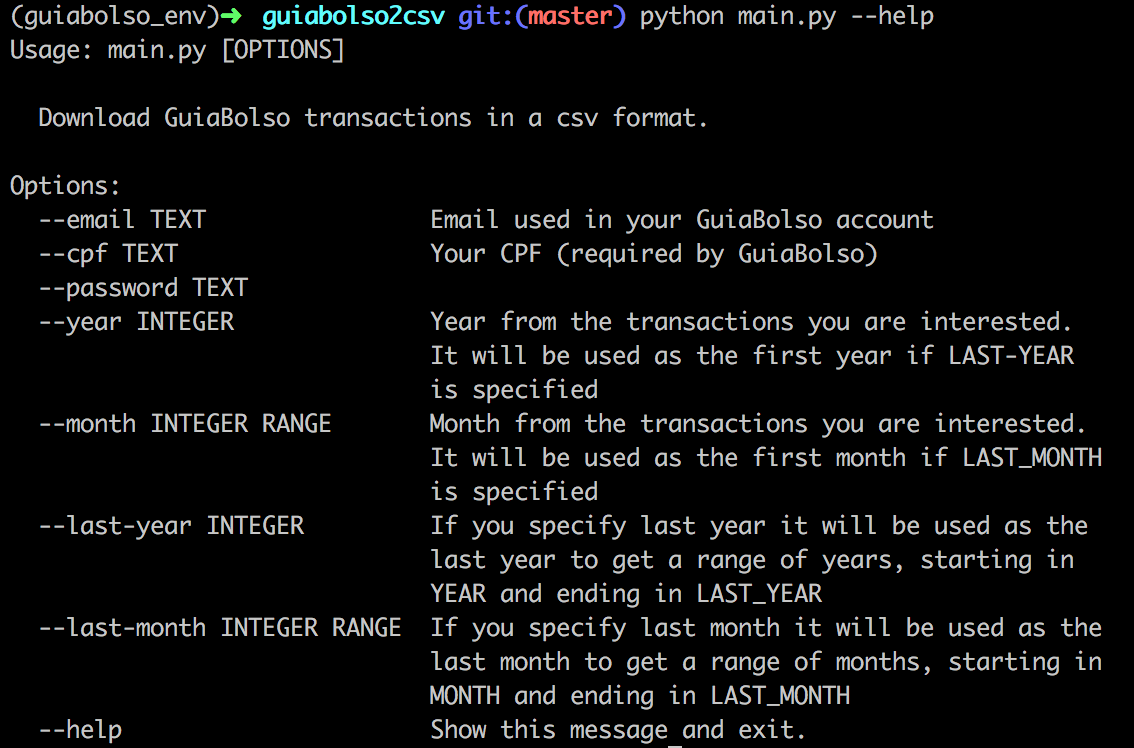
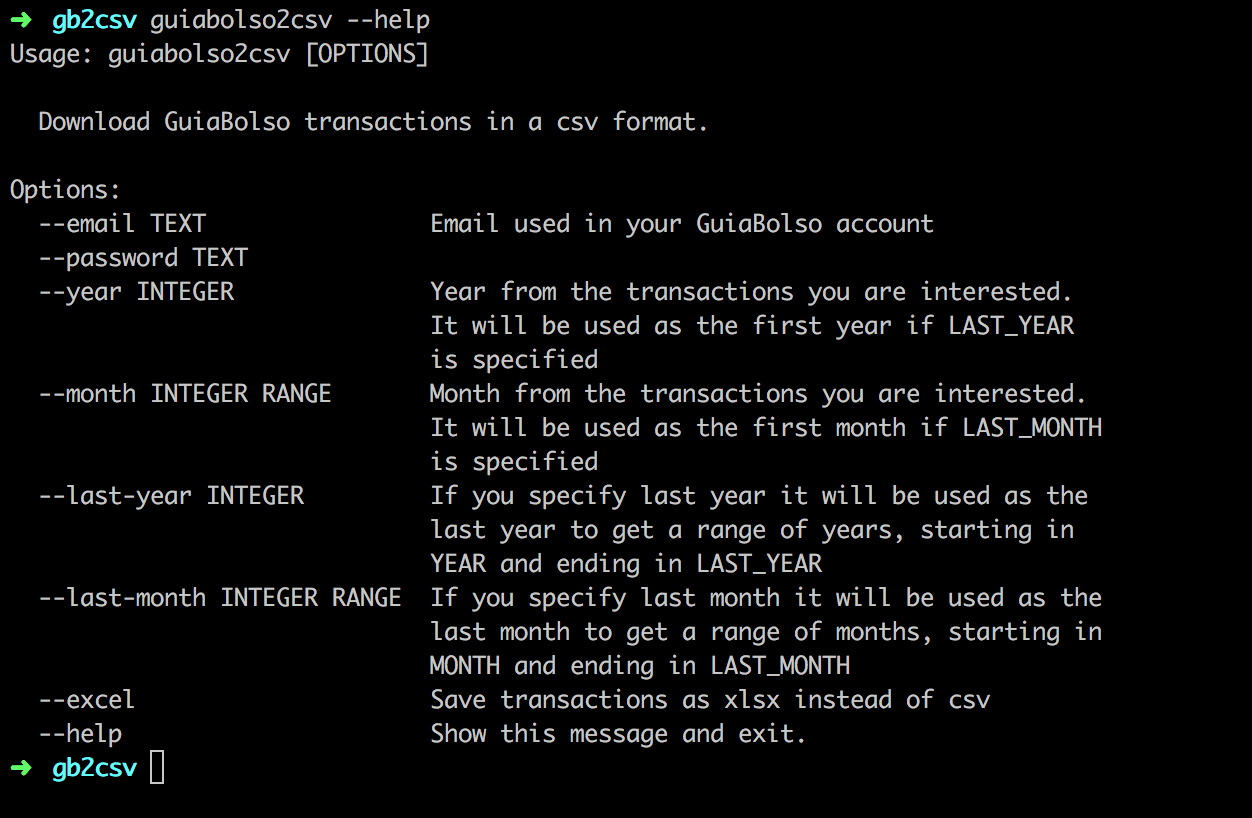
Updating docs

diff --git a/README.rst b/README.rst
@@ -4,7 +4,7 @@ GuiaBolso2csv
 
 GuiaBolso2csv é um simples programa em Python cuja finalidade é baixar os dados de transação do GuiaBolso em formato csv.
 
-O GuiaBolso_ é um app criado para agregar transações de diversas contas e classificá-las de forma *quase* automática. A agregação e a classificação são bastante úteis no auxílio do controle dos gastos. O problema é que a análise dos dados é limitada ao que é oferecido pela plataforma. Além disso, os clientes não têm posse de seus dados, caso a empresa deixe de existir ou ocorra alguma mudança na política, os dados podem ser perdidos para sempre. O GuiaBolso2csv permite que os dados sejam baixados e então usados (e guardados) da forma que for mais conveniente. Ainda, o fato de ser gerado um arquivo csv facilita a exportação para o Excel.
+O GuiaBolso_ é um app criado para agregar transações de diversas contas e classificá-las de forma *quase* automática. A agregação e a classificação são bastante úteis no auxílio do controle dos gastos. O problema é que a análise dos dados é limitada ao que é oferecido pela plataforma. Além disso, os clientes não têm posse de seus dados, caso a empresa deixe de existir ou ocorra alguma mudança na política, os dados podem ser perdidos para sempre. O GuiaBolso2csv permite que os dados sejam baixados e então usados (e guardados) da forma que for mais conveniente. Além do formato csv há a opção de gerar um arquivo xlsx (formato do Excel).
 
 .. _GuiaBolso: https://www.guiabolso.com.br/
 
@@ -20,6 +20,60 @@ Funcionalidades
 Obtendo
 -------
 
+O jeito mais fácil de instalar é usando o pip (pode ser necessário usar sudo). Basta fazer ::
+
+    pip install guiabolso2csv
+
+Uso Básico
+----------
+O guiabolso2csv pode ser usado com opções de linha de comando ou de forma interativa. Assim, se você rodar o programa sem opções, vai funcionar como a seguir::
+
+    guiabolso2csv
+
+.. image:: docs/simple.gif
+
+Observe como foi perguntado os dados de login além do ano e mês das transações de interesse. Finalmente um arquivo csv é baixado para o diretório atual.
+
+Alternativamente, o mesmo poderia ser feito usando opções por linha de comando::
+
+    guiabolso2csv --email example@example.com --year 2016 --month 12
+
+.. image:: docs/options.gif
+
+O único dado não especificado foi a senha, que é requisitada pelo programa.
+
+Qualquer dúvida no uso das opções basta fazer::
+
+    guiabolso2csv --help
+
+.. image:: docs/help.png
+
+Outras Opções
+-------------
+Algumas funcionalidades não são disponíveis de forma interativa. A seguir será mostrado como obter um intervalo com vários meses e como obter os arquivos de saída direto no formato do Excel (xlsx).
+
+Intervalo de Meses
+..................
+Para obter um intervalo de meses basta usar as opções `--last-year` e `--last-month`. O programa baixa automaticamente arquivos para todos os meses desde `MONTH/YEAR` até `LAST_MONTH/LAST_YEAR`, por exemplo::
+
+    guiabolso2csv --email example@example.com --year 2016 --month 12 --last-year 2017 --last-month 6
+
+.. image:: docs/range.gif
+
+Baixando em Formato do Excel
+............................
+
+Além de `csv`, você pode baixar os dados de transação diretamente no formato `xlsx`. Para isso basta usar a flag `--excel`, por exemplo::
+
+    guiabolso2csv --email example@example.com --year 2016 --month 12 --excel
+
+.. image:: docs/xlsx.gif
+
+Baixando o repositório
+----------------------
+
+Caso deseje contribuir para este reprositório ou simplesmente prefere baixar diretamente (sem usar o PyPI). Siga as instruções a seguir.
+
 Você deve ter `git` e `pip` instalados para, respectivamente, baixar o repositório e instalar as dependências.
 
 Clone o repositório::
@@ -32,29 +86,6 @@ Vá para o repositório que você acabou de clonar e instale as dependências co
     cd guiabolso2csv
     pip install -r requirements.txt
 
-Pronto, você já pode usar o GuiaBolso2csv executando o `main.py` como exemplificado a seguir.
+Pronto, você já pode usar o GuiaBolso2csv a partir do código baixado fazendo::
 
-Exemplos de Uso
----------------
-Você pode usar o programa passando opções por linha de comando ou, se preferir, esperando que o programa pergunte. Assim, se você rodar o programa sem opções, vai funcionar como a seguir::
-
-    python main.py
-
-.. image:: docs/simple.gif
-
-Observe como foi perguntado os dados de login além do ano e mês das transações de interesse. Finalmente um arquivo csv é baixado para o diretório atual.
-
-Alternativamente, o mesmo poderia ser feito usando opções por linha de comando::
-
-    python main.py --email example@example.com --cpf 1234567890 --year 2016 --month 12
-
-.. image:: docs/options.gif
-
-O único dado não especificado foi a senha, que foi perguntada pelo programa.
-
-Qualquer dúvida no uso das opções basta fazer::
-
-    python main.py --help
-
-.. image:: docs/help.png
-
+    python guiabolso2csv
